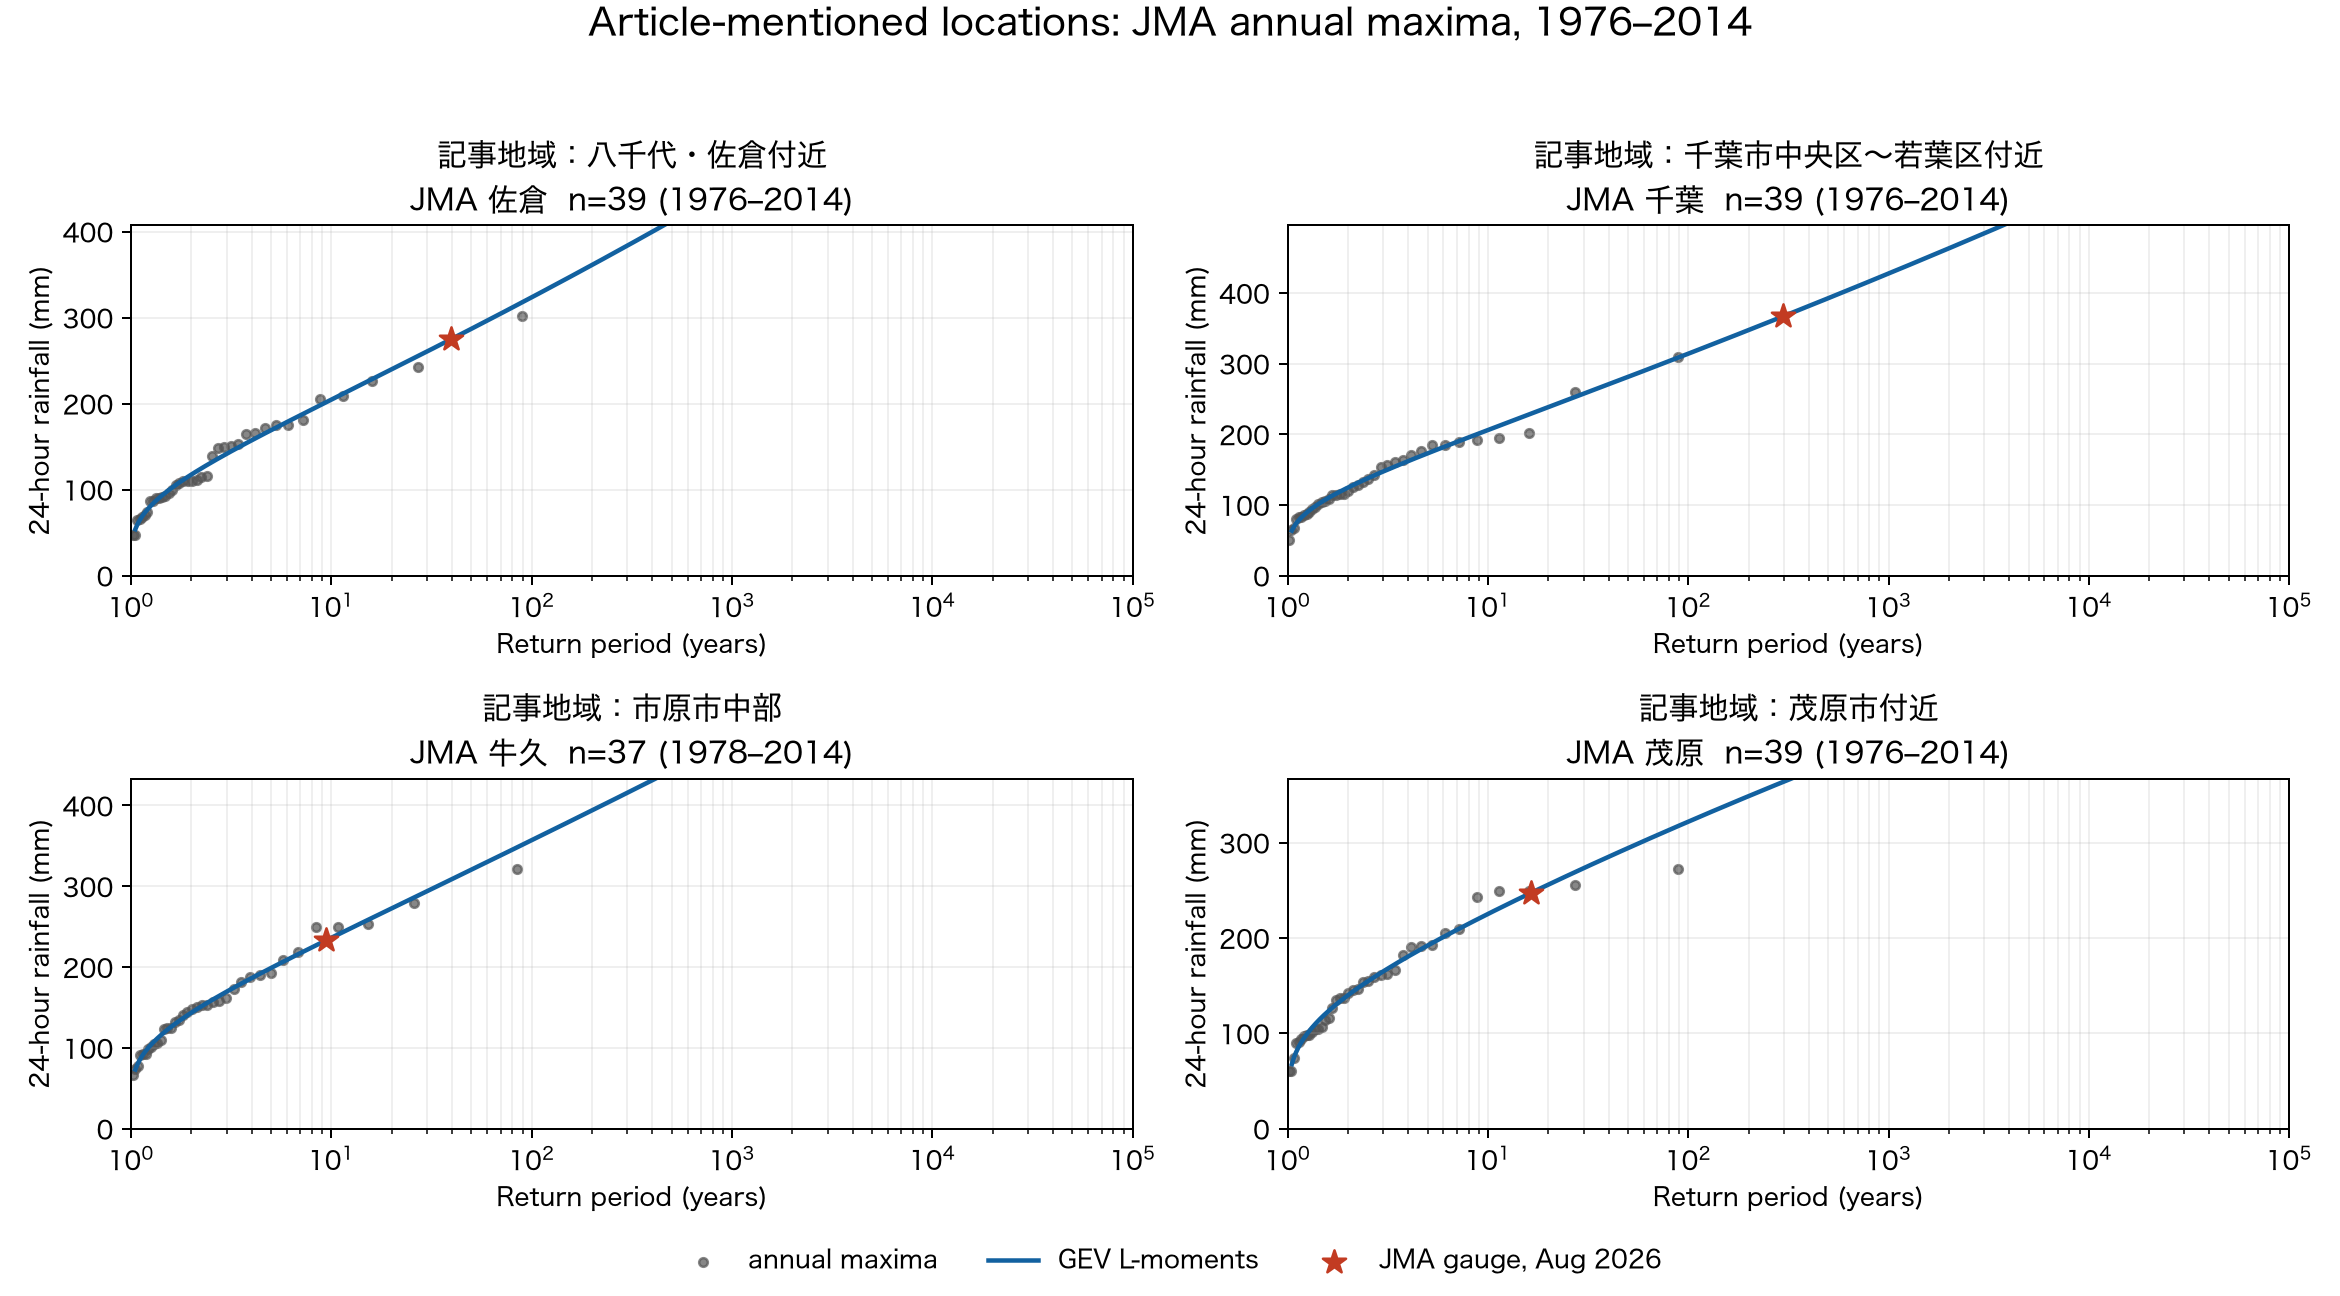
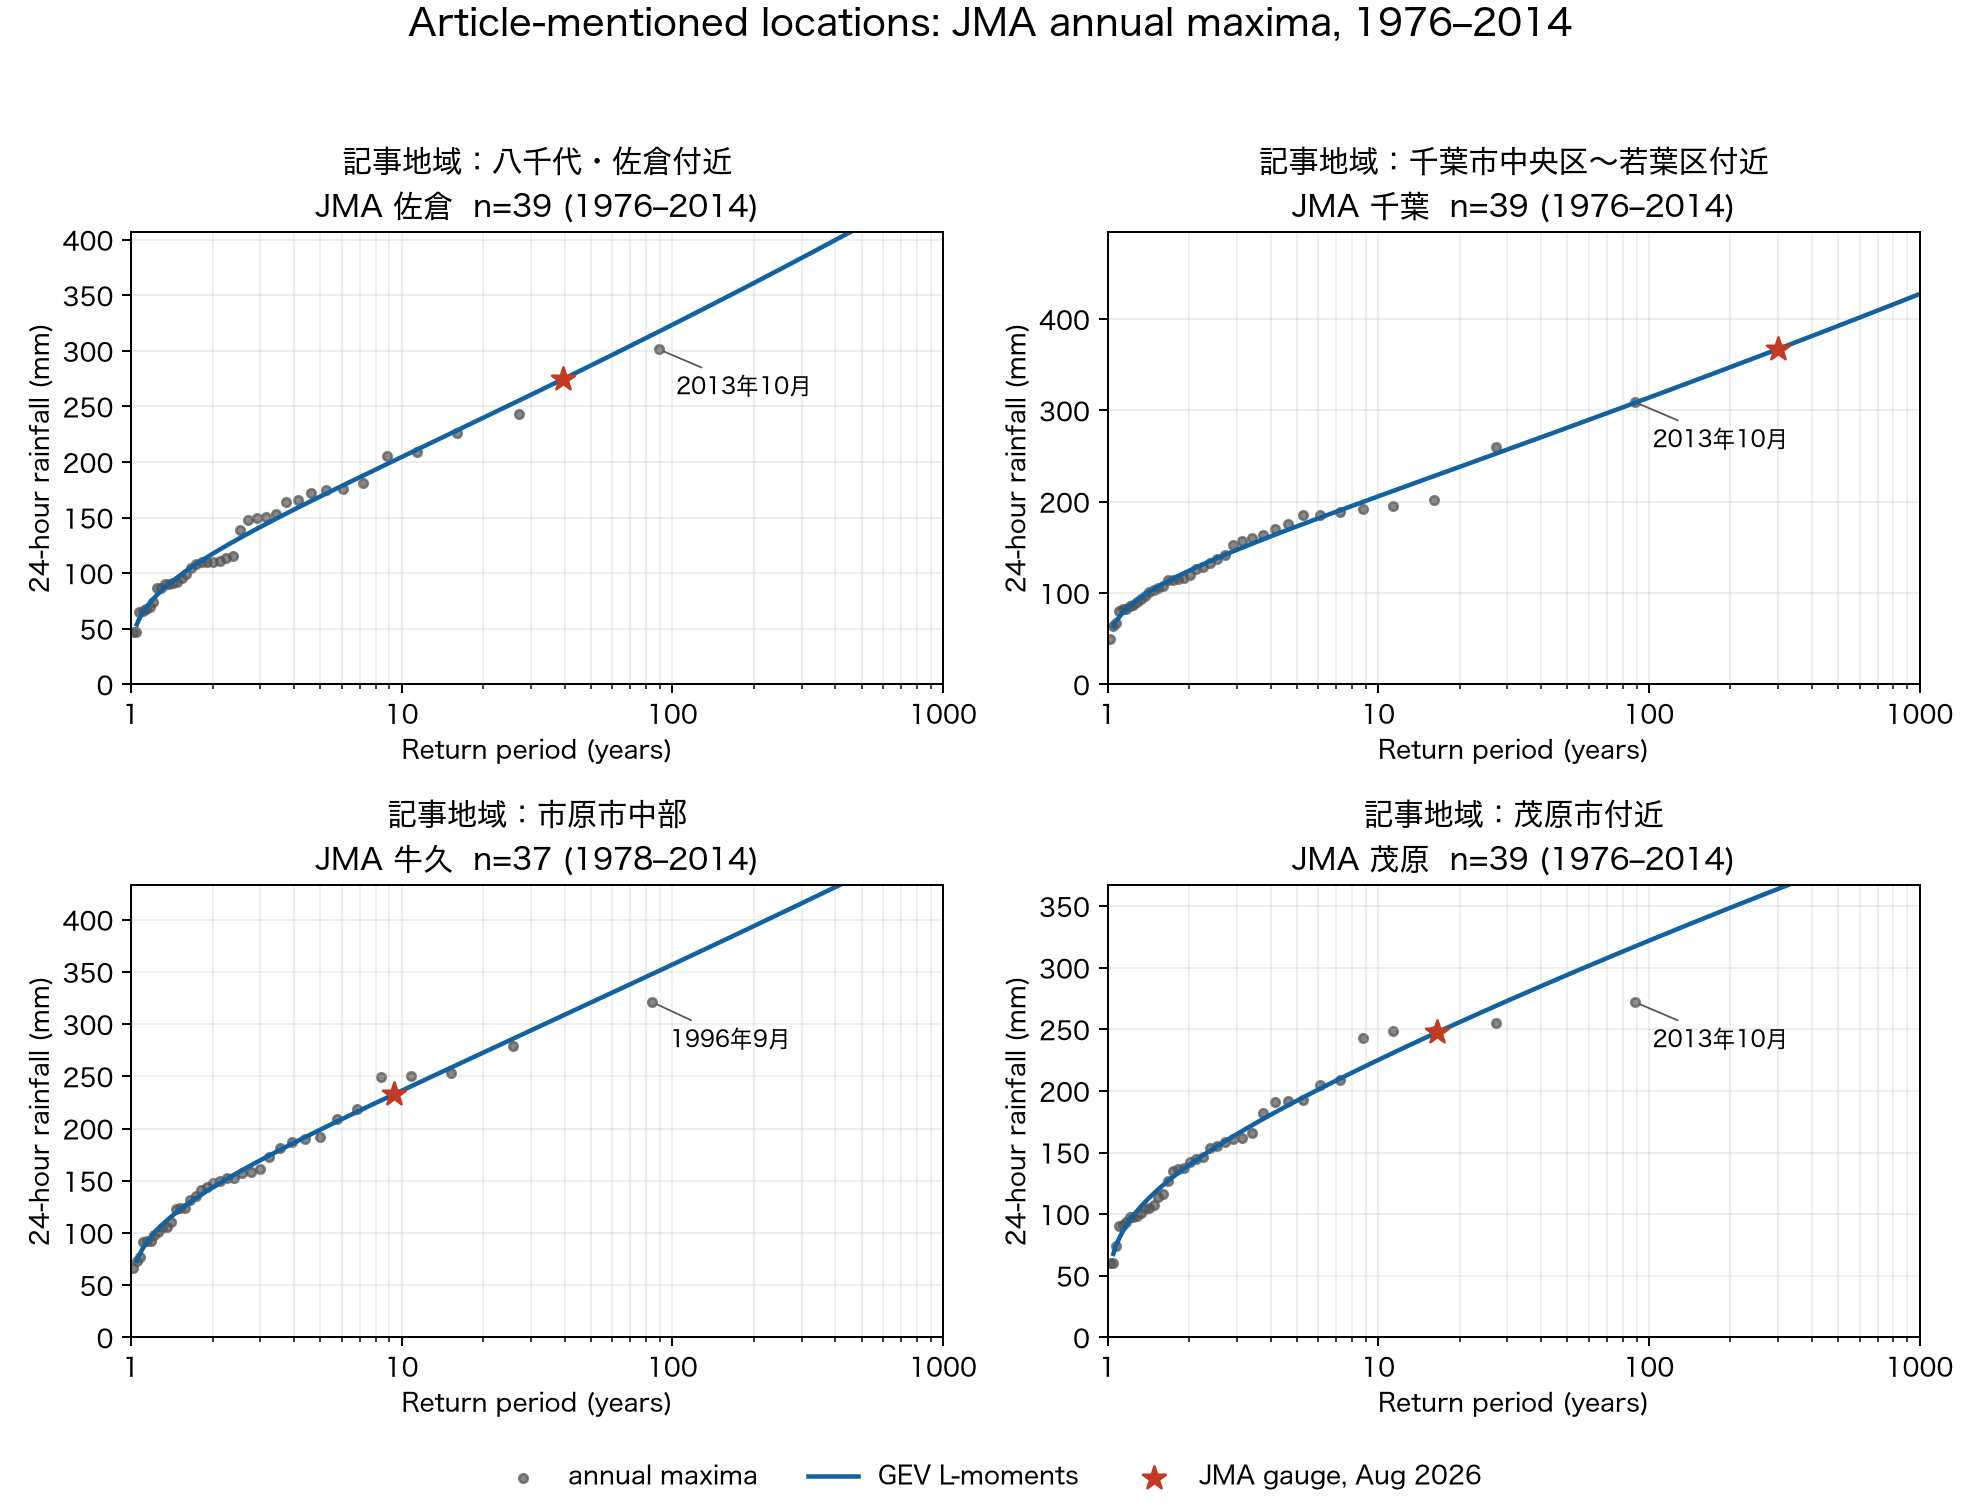
Refine return-level plot axes and labels

diff --git a/src/chiba_heavy_rain/analysis.py b/src/chiba_heavy_rain/analysis.py
@@ -4,11 +4,13 @@ from __future__ import annotations
 
 import argparse
 import math
+import re
 from pathlib import Path
 
 import matplotlib.pyplot as plt
 import numpy as np
 import pandas as pd
+from matplotlib.ticker import FixedLocator, FuncFormatter
 
 from .extremes import (
     bootstrap_return_period,
@@ -61,6 +63,13 @@ def _configure_plotting() -> None:
     )
 
 
+def _year_month_label(row: pd.Series) -> str:
+    match = re.search(r"(\d{1,2})/", str(row["date"]))
+    if match is None:
+        return f"{int(row['year'])}年"
+    return f"{int(row['year'])}年{int(match.group(1))}月"
+
+
 def _plot_summary(results: pd.DataFrame, output: Path) -> None:
     eligible = results.loc[results["eligible"]].sort_values("return_period_years")
     y = np.arange(len(eligible))
@@ -98,12 +107,14 @@ def _plot_return_levels(
     results: pd.DataFrame,
     output: Path,
     title: str = "Observed annual maxima and stationary GEV L-moment fits",
+    annotate_maximum: bool = False,
 ) -> None:
     eligible = results.loc[results["eligible"]].sort_values("station")
     ncols = 2 if len(eligible) <= 4 else 3
     nrows = math.ceil(len(eligible) / ncols)
-    fig, axes = plt.subplots(nrows, ncols, figsize=(13, 3.6 * nrows), squeeze=False)
-    periods = np.geomspace(1.05, 1e5, 500)
+    figure_width = 11 if ncols == 2 else 13
+    fig, axes = plt.subplots(nrows, ncols, figsize=(figure_width, 4.2 * nrows), squeeze=False)
+    periods = np.geomspace(1.05, 1000, 500)
     for ax, (_, row) in zip(axes.ravel(), eligible.iterrows(), strict=False):
         station = str(row["station"])
         values = series[station]["max_24h_mm"].to_numpy(float)
@@ -114,6 +125,17 @@ def _plot_return_levels(
         ax.scatter(
             empirical_period, ordered, s=12, alpha=0.7, color="#555555", label="annual maxima"
         )
+        if annotate_maximum:
+            maximum_row = series[station].loc[series[station]["max_24h_mm"].idxmax()]
+            ax.annotate(
+                _year_month_label(maximum_row),
+                xy=(float(empirical_period[-1]), float(ordered[-1])),
+                xytext=(7, -18),
+                textcoords="offset points",
+                fontsize=9,
+                ha="left",
+                arrowprops={"arrowstyle": "-", "color": "#555555", "lw": 0.7},
+            )
         ax.plot(
             periods,
             return_level(periods, fit),
@@ -131,7 +153,9 @@ def _plot_return_levels(
             label="JMA gauge, Aug 2026",
         )
         ax.set_xscale("log")
-        ax.set_xlim(1, 1e5)
+        ax.set_xlim(1, 1000)
+        ax.xaxis.set_major_locator(FixedLocator([1, 10, 100, 1000]))
+        ax.xaxis.set_major_formatter(FuncFormatter(lambda value, _: f"{value:.0f}"))
         # Keep short-record shape estimates from making the observed range unreadable.
         # The fitted curve may leave the panel at long return periods; that behavior is
         # itself a warning about extrapolation instability.
@@ -324,6 +348,7 @@ def run(raw_dir: Path, results_dir: Path, refresh: bool, bootstrap_samples: int)
         article_results,
         results_dir / "historical_1976_2014_return_levels.png",
         title="Article-mentioned locations: JMA annual maxima, 1976–2014",
+        annotate_maximum=True,
     )
     _plot_period_comparison(
         results, period_results, results_dir / "historical_period_comparison.png"
@@ -334,9 +359,7 @@ def run(raw_dir: Path, results_dir: Path, refresh: bool, bootstrap_samples: int)
 
 def render_existing(results_dir: Path, bootstrap_samples: int) -> pd.DataFrame:
     """Regenerate report and figures without repeating the bootstrap calculation."""
-    results = pd.read_csv(
-        results_dir / "station_return_periods.csv", dtype={"block_no": str}
-    )
+    results = pd.read_csv(results_dir / "station_return_periods.csv", dtype={"block_no": str})
     annual = pd.read_csv(results_dir / "annual_max_24h.csv")
     historical_series: dict[str, pd.DataFrame] = {}
     for row in results.loc[results["eligible"]].itertuples():
@@ -364,6 +387,7 @@ def render_existing(results_dir: Path, bootstrap_samples: int) -> pd.DataFrame:
         article_results,
         results_dir / "historical_1976_2014_return_levels.png",
         title="Article-mentioned locations: JMA annual maxima, 1976–2014",
+        annotate_maximum=True,
     )
     _plot_period_comparison(
         results, period_results, results_dir / "historical_period_comparison.png"

diff --git a/tests/test_extremes.py b/tests/test_extremes.py
@@ -6,6 +6,7 @@ from chiba_heavy_rain.analysis import (
     ARTICLE_STATION_LABELS,
     _article_location_subset,
     _historical_period_results,
+    _year_month_label,
 )
 from chiba_heavy_rain.extremes import GEVFit, fit_gev, return_level, return_period
 
@@ -65,3 +66,8 @@ def test_article_plot_subset_contains_only_directly_matched_eligible_stations() 
     selected, selected_series = _article_location_subset(results, series)
     assert set(selected["station"]) == {"茂原", "牛久", "佐倉"}
     assert set(selected_series) == {"茂原", "牛久", "佐倉"}
+
+
+def test_year_month_label_uses_annual_maximum_date() -> None:
+    row = pd.Series({"year": 2013, "date": "10/16 13:50"})
+    assert _year_month_label(row) == "2013年10月"
